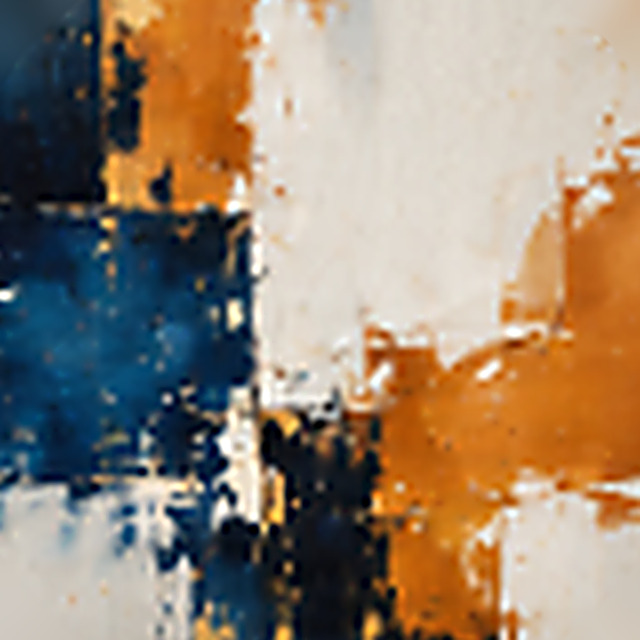
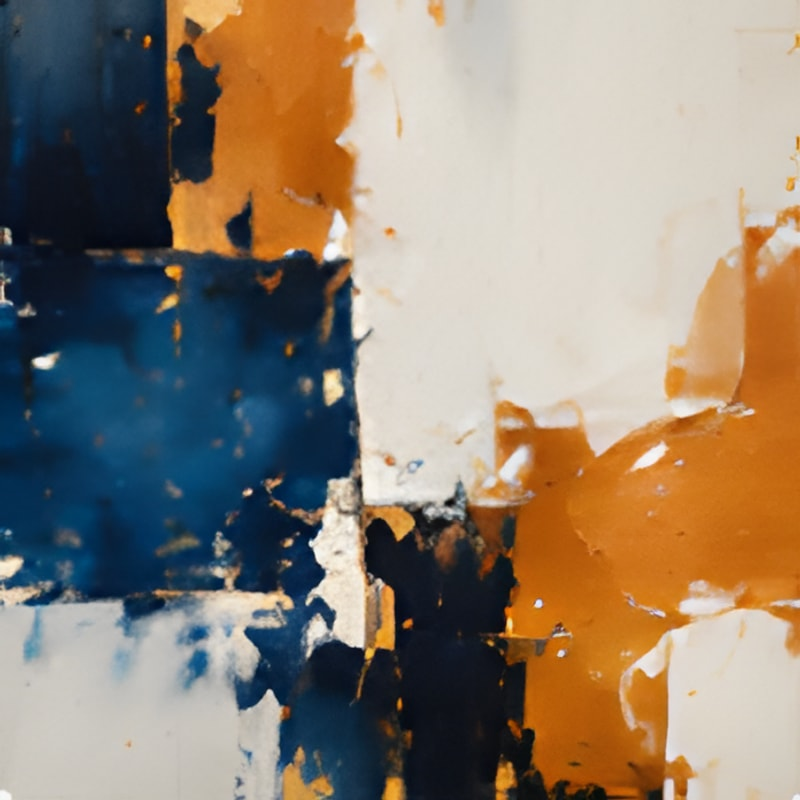
Sharpen Shop by Category images
Re-extract each tile from shop_by_category.png keeping the whole circle
for subject groups (only ever shown round), AI-upscale 4x with
Real-ESRGAN (realesrgan-x4plus), and save at 800px, JPEG quality 90.
Serve the homepage circles at quality 90 instead of the default 75.

diff --git a/src/app/(store)/page.tsx b/src/app/(store)/page.tsx
@@ -41,7 +41,7 @@ export default async function Home() {
           ].map((c) => (
             <Link key={c.name} href={c.href} className="group text-center">
               <div className="relative mx-auto aspect-square w-full overflow-hidden rounded-full bg-line">
-                <Image src={c.image} alt={c.name} fill sizes="(min-width: 640px) 16vw, 33vw" className="object-cover transition-transform duration-500 group-hover:scale-110" />
+                <Image src={c.image} alt={c.name} fill quality={90} sizes="(min-width: 640px) 16vw, 33vw" className="object-cover transition-transform duration-500 group-hover:scale-110" />
               </div>
               <p className="mt-3 text-sm group-hover:text-gold">{c.name}</p>
             </Link>

diff --git a/next.config.ts b/next.config.ts
@@ -2,6 +2,8 @@ import type { NextConfig } from "next";
 
 const nextConfig: NextConfig = {
   images: {
+    // 75 is the default; 90 keeps fine brushwork sharp on small artwork tiles.
+    qualities: [75, 90],
     remotePatterns: [
       // Images uploaded from /admin (Supabase Storage)
       { protocol: "https", hostname: "*.supabase.co", pathname: "/storage/v1/object/public/**" },
